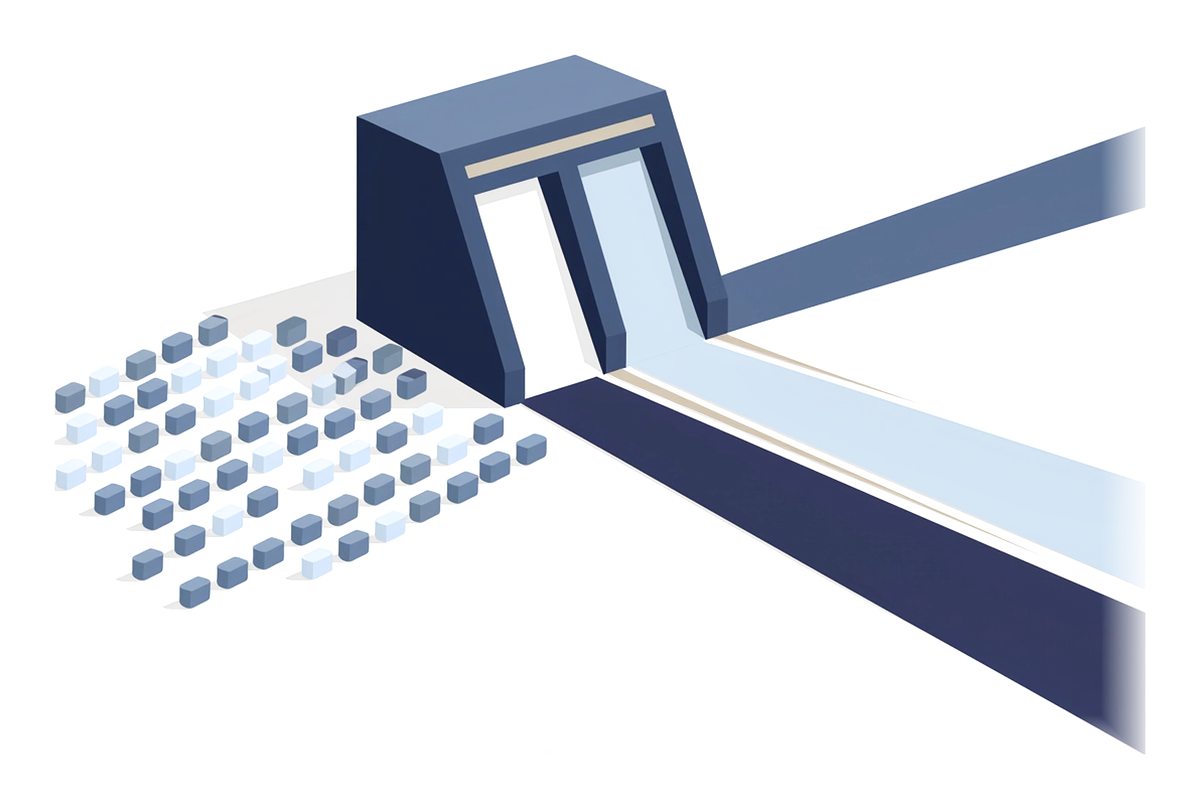
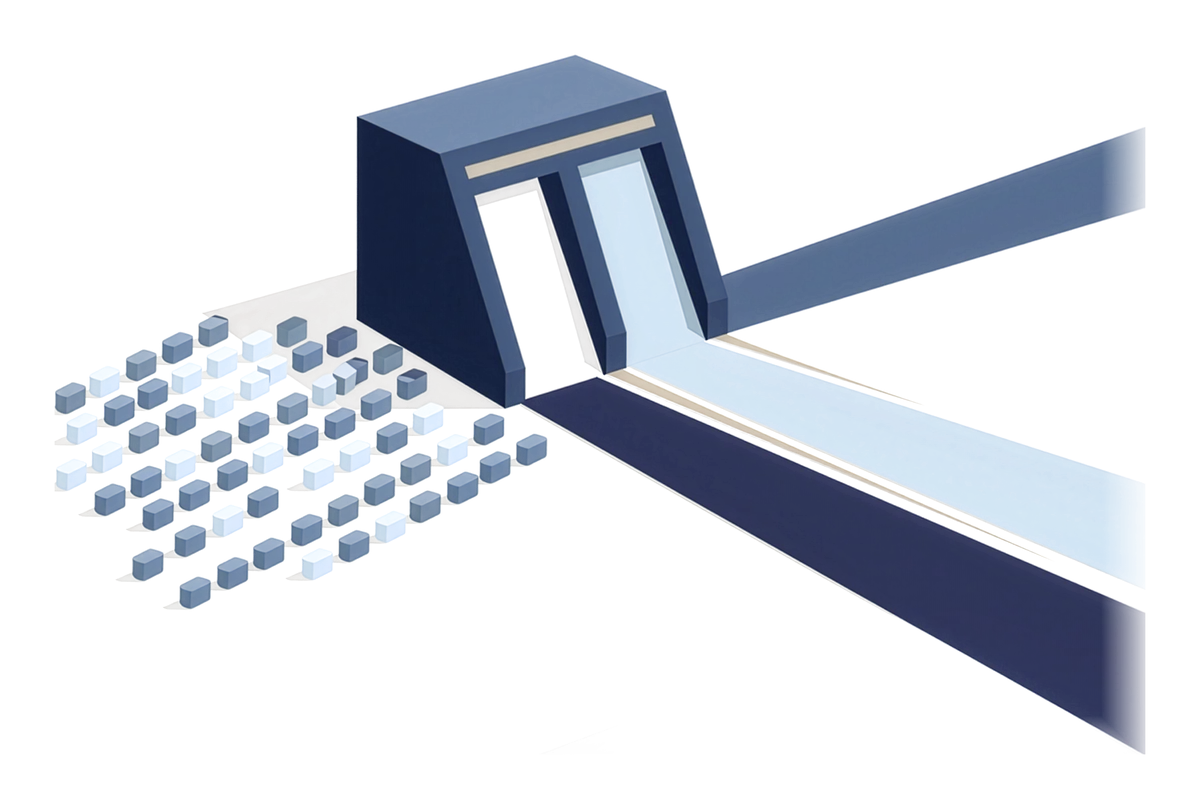
Two more heroes from Firefly Upscaler 4x sources (19 of 63)

Changed region(s): [[0.4625, 0.1545, 0.5242, 0.1854], [0.4008, 0.1854, 0.4317, 0.2163], [0.2775, 0.4326, 0.3083, 0.4635]]

diff --git a/web/content/image-licences.ts b/web/content/image-licences.ts
@@ -295,7 +295,7 @@ export const imageLicences: ImageLicence[] = [
     file: "public/hero/case-study-agri-commerce-distribution-india.webp",
     source: "licensed-generative",
     provider: "Adobe Firefly",
-    reference: "firefly-image5-2026-11-26-spec63-50 (local 4x enlargement; Firefly Upscaler pending)",
+    reference: "firefly-image5-2026-11-26-spec63-50 (Firefly Upscaler 4x)",
     acquired: "2026-11-26",
     depicts: "A flow of small navy and blue units passing through a sorting gate and separating into lanes",
     aiGenerated: true,
@@ -717,7 +717,7 @@ export const imageLicences: ImageLicence[] = [
     file: "public/hero/about-credentials-awards.webp",
     source: "licensed-generative",
     provider: "Adobe Firefly",
-    reference: "firefly-image5-2026-11-26-spec63-63 (local 4x enlargement; Firefly Upscaler pending)",
+    reference: "firefly-image5-2026-11-26-spec63-63 (Firefly Upscaler 4x)",
     acquired: "2026-11-26",
     depicts: "A shallow stack of navy-framed plates seen at a slight angle, one standing proud",
     aiGenerated: true,
